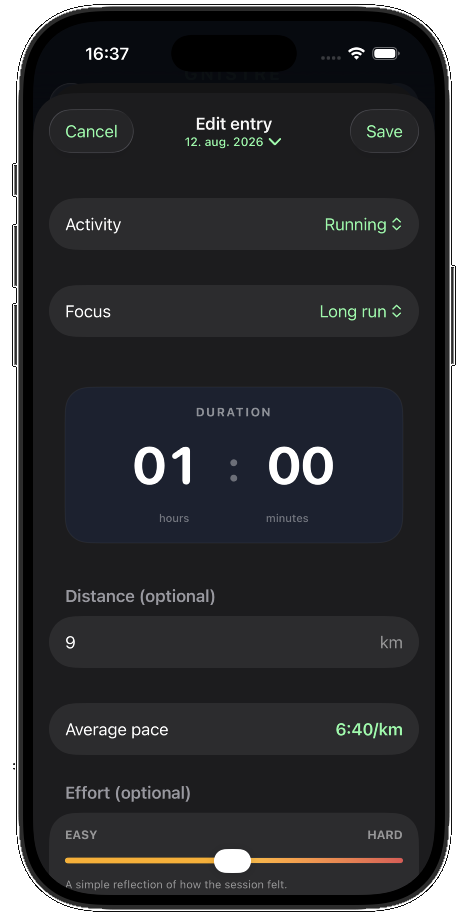
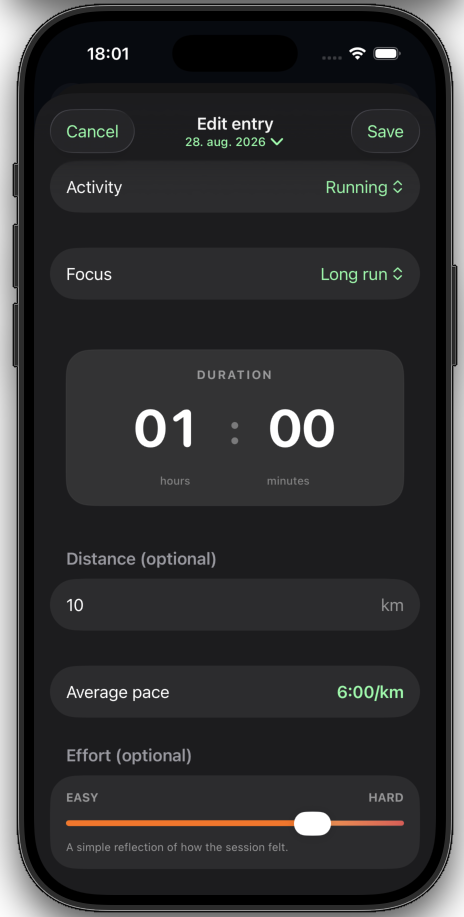
Update privacy copy and edit entry screen

diff --git a/app/page.tsx b/app/page.tsx
@@ -21,7 +21,7 @@ export default function Home() {
         <div className="hero-visual"><div className="hero-glow" /><Phone src="/screens-clean/log-road-cycling.png" alt="Gnistre home screen for logging an activity" /></div>
       </section>
 
-      <section className="feature-section" id="how"><div className="core-lower standalone-feature"><div className="feature-copy"><div className="section-kicker">Core over content.</div><h2>Designed to get out of your way.</h2><p className="statement-lede">Your progress doesn&apos;t need an audience.</p><p className="noise-note"><strong>Optional distance tracking.</strong><span>No maps. No route history. No data harvesting.</span></p><div className="feature-points"><article><span>01</span><div><h3>Simple by design</h3><p>Start now or log it later. Choose what you did, add a detail if you want, and save.</p></div></article><article><span>02</span><div><h3>Private by default</h3><p>Your activities are yours. No feeds, followers or public scoreboard.</p></div></article></div></div><div className="feature-phones"><Phone src="/screens-clean/edit-distance.png" alt="Gnistre edit entry showing running distance and average pace" className="phone-small phone-back" /><Phone src="/screens-clean/stopwatch-gps.png" alt="Gnistre stopwatch with optional distance tracking ready to start" className="phone-small phone-front phone-gps" /></div></div></section>
+      <section className="feature-section" id="how"><div className="core-lower standalone-feature"><div className="feature-copy"><div className="section-kicker">Core over content.</div><h2>Designed to get out of your way.</h2><p className="statement-lede">Your progress doesn&apos;t need an audience.</p><p className="noise-note"><strong>Optional distance tracking.</strong><span>No maps. No route history.</span><span>No data harvesting.</span></p><div className="feature-points"><article><span>01</span><div><h3>Simple by design</h3><p>Start now or log it later. Choose what you did, add a detail if you want, and save.</p></div></article><article><span>02</span><div><h3>Private by default</h3><p>Your activities are yours. No feeds, followers or public scoreboard.</p></div></article></div></div><div className="feature-phones"><Phone src="/screens-clean/edit-distance.png" alt="Gnistre edit entry showing running distance and average pace" className="phone-small phone-back" /><Phone src="/screens-clean/stopwatch-gps.png" alt="Gnistre stopwatch with optional distance tracking ready to start" className="phone-small phone-front phone-gps" /></div></div></section>
 
       <section className="everyone-section" id="everyone"><div className="everyone-copy"><div className="section-kicker">For every age. Every kind of movement.</div><h2>Not just workouts.<br /><em>Not just athletes.</em></h2><p>Gnistre is for school days, training days, creative days and everything in between.</p><a className="text-link" href="#start">Find your starting point <span>↗</span></a></div><div className="activity-collage"><Phone src="/screens-clean/activities-creative-academic.png" alt="Gnistre creative and academic activity categories" className="collage-phone collage-back" /><Phone src="/screens-clean/activities-sports.png" alt="Gnistre sports activity list" className="collage-phone collage-front" /></div></section>
 
